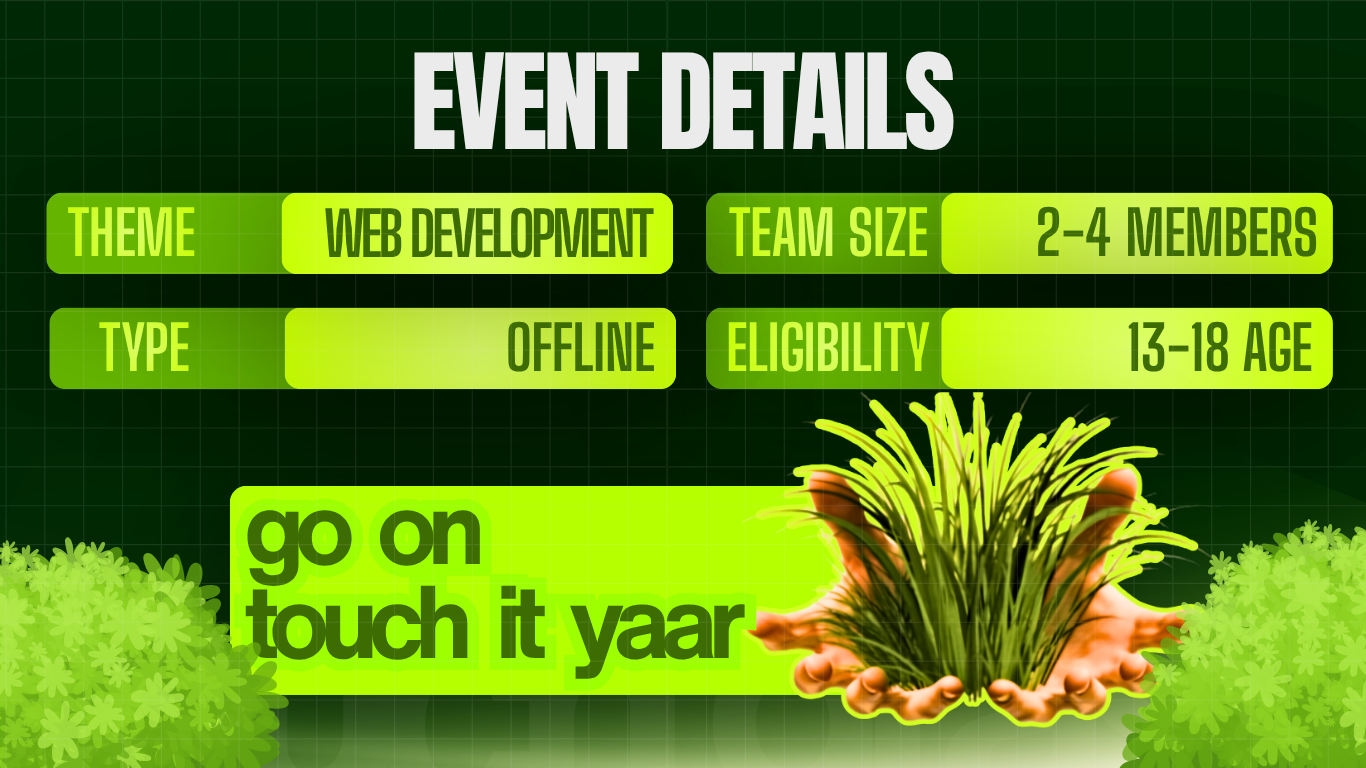
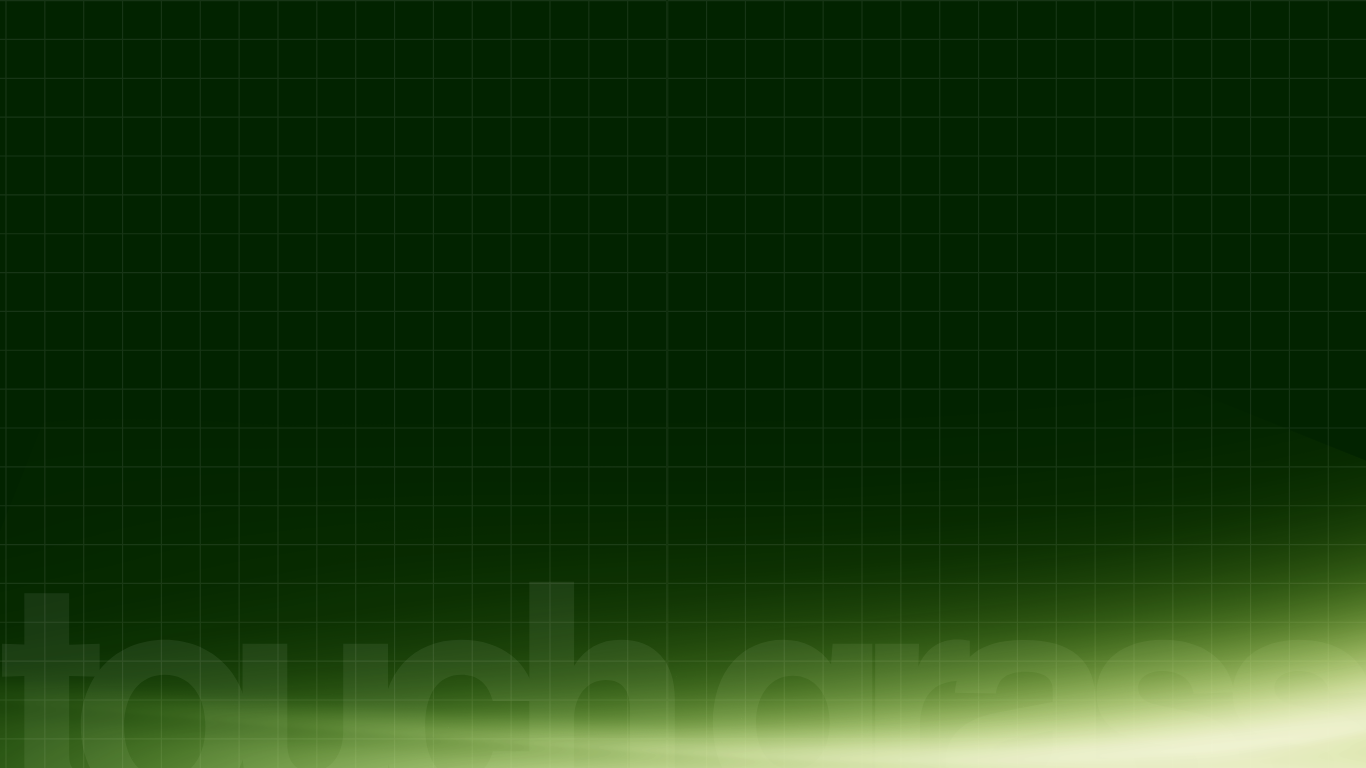
better mobile support and way better details

diff --git a/src/App.jsx b/src/App.jsx
@@ -1,8 +1,10 @@
-import { useEffect } from "react";
+import { useEffect, useState } from "react";
 import PillNav from "./PillNav";
 import LogoLoop from "./LogoLoop";
 import FlexCarousel from "./FlexCarousel";
 import Title from "./assets/Title.ttf";
+import info_d from "./assets/info_d.png";
+import kv from "./assets/kv.png";
 import logo from "./assets/touch_hindi.png";
 import our_sponsor from "./assets/our_sponsor.png";
 import more_info from "./assets/more_info.png";
@@ -12,10 +14,12 @@ import jassi1 from "./assets/pics/jassi1.jpeg";
 import jassi2 from "./assets/pics/jassi2.jpeg";
 import nitik2 from "./assets/pics/nitik2.jpeg";
 import aditya2 from "./assets/pics/aditya2.jpg";
-import nitik3 from "./assets/pics/nitik3.jpeg"
+import nitik3 from "./assets/pics/nitik3.jpeg";
+import grass_h from "./assets/grass_hand.png";
+import details_h from "./assets/details_head.png";
 import main_img from "./assets/main_head.png";
-import vansh1 from "./assets/pics/vansh1.jpeg"
-import vansh2 from "./assets/pics/vansh2.jpeg"
+import vansh1 from "./assets/pics/vansh1.jpeg";
+import vansh2 from "./assets/pics/vansh2.jpeg";
 import xyz from "./assets/xyz.png";
 import education from "./assets/education.png";
 import aadarsh1 from "./assets/pics/aadarsh1.jpeg";
@@ -27,18 +31,23 @@ const items = [
   { src: nitik3, alt: "nitik wow very cool guy", title: "nitik the vice-head organizer" },
   { src: jassi2, alt: "yes its me, same person coding this at 4am", title: "jassi the chief tech organizer" },
   { src: nitik2, alt: "nitik wow very cool guy", title: "nitik the vice-head organizer" },
-  { src: aadarsh1, alt: "yes he did something", title: "aadarsh from logistic department" },
+  { src: aadarsh1, alt: "yes he did something", title: "aadarsh from logistics department" },
   { src: vansh2, alt: "the designer (who is late many times)", title: "vansh the chief design organizer" },
-  { src: vansh1, alt: "the designer (who is late many times)", title: "vansh the chief design organizer"}
+  { src: vansh1, alt: "the designer (who is late many times)", title: "vansh the chief design organizer" }
 ];
 
 const imageLogos = [
-  { src: xyz, alt: ".XYZ", title: ".XYZ", href: "https://gen.xyz/" },
+  { src: xyz, alt: ".xyz", title: ".xyz", href: "https://gen.xyz/" },
   { src: education, alt: "Shekunj Education", title: "Shekunj Education", href: "https://www.shekunj.com/" },
+  { src: kv, alt: "Kv", title: "Kendriya Vidyalaya Sangathan", href: "https://no1delhicantt.kvs.ac.in/" }
 ];
 
 function App() {
+  const [isMobile, setIsMobile] = useState(false);
+
   useEffect(() => {
+    setIsMobile(/Android|webOS|iPhone|iPad|iPod|BlackBerry|IEMobile|Opera Mini/i.test(navigator.userAgent));
+
     const updateViewportHeight = () => {
       document.documentElement.style.setProperty("--app-height", `${window.innerHeight}px`);
     };
@@ -106,7 +115,7 @@ function App() {
         />
         <hr></hr>
         <div className="-mt-24 w-full overflow-hidden bg-whitish">
-        <hr></hr>
+          <hr></hr>
           <LogoLoop
             logos={imageLogos}
             layout="wave"
@@ -131,57 +140,32 @@ function App() {
             intro={true}
             ariaLabel="Our Sponsors"
           />
-                  <hr></hr>
+          <hr></hr>
         </div>
 
         <img
           src={more_info}
           className="object-cover transition-transform duration-500 hover:scale-110 z-30 w-[80%]"
         />
+        <br></br>
+        <br></br>
       </div>
 
-      <div id="details">
+      <div id="details" className="flex flex-col justify-center items-center -mt-28 pb-5 w-full">
         <br />
         <br />
         <br />
-        <br />
-        <br />
-        <br />
-        <br />
-        <br />
-        <br />
-        <br />
-        <br />
-        <br />
-        <br />
-        <br />
-        <br />
-        <br />
-        <br />
-        <br />
-        <br />
-        <br />
-        <br />
-        <br />
-        <br />
-        <br />
-        <br />
-        <br />
-        <br />
-        <br />
-        <br />
-        <br />
-        <br />
-        <br />
-        <br />
-        <br />
-        <br />
-        <br />
-        <br />
-        <br />
-        <br />
-        <br />
-        <br />
+        <img
+          src={details_h}
+          className={`object-cover transition-transform duration-500 rotate-3 hover:scale-150 z-30 pt-20 ${
+            isMobile ? "blur-none" : "blur-xs hover:blur-none"
+          }`}
+        />
+        <img src={info_d} className="object-cover transition-transform duration-500 z-30 hover:scale-110" id="info_d"></img>
+        <img src={grass_h} className="object-cover transition-transform duration-500 z-30 hover:scale-110 rotate-12 hover:-rotate-12"></img>
+        <br></br>
+        <br></br>
+        <br></br>
       </div>
 
       <div id="organizers">
